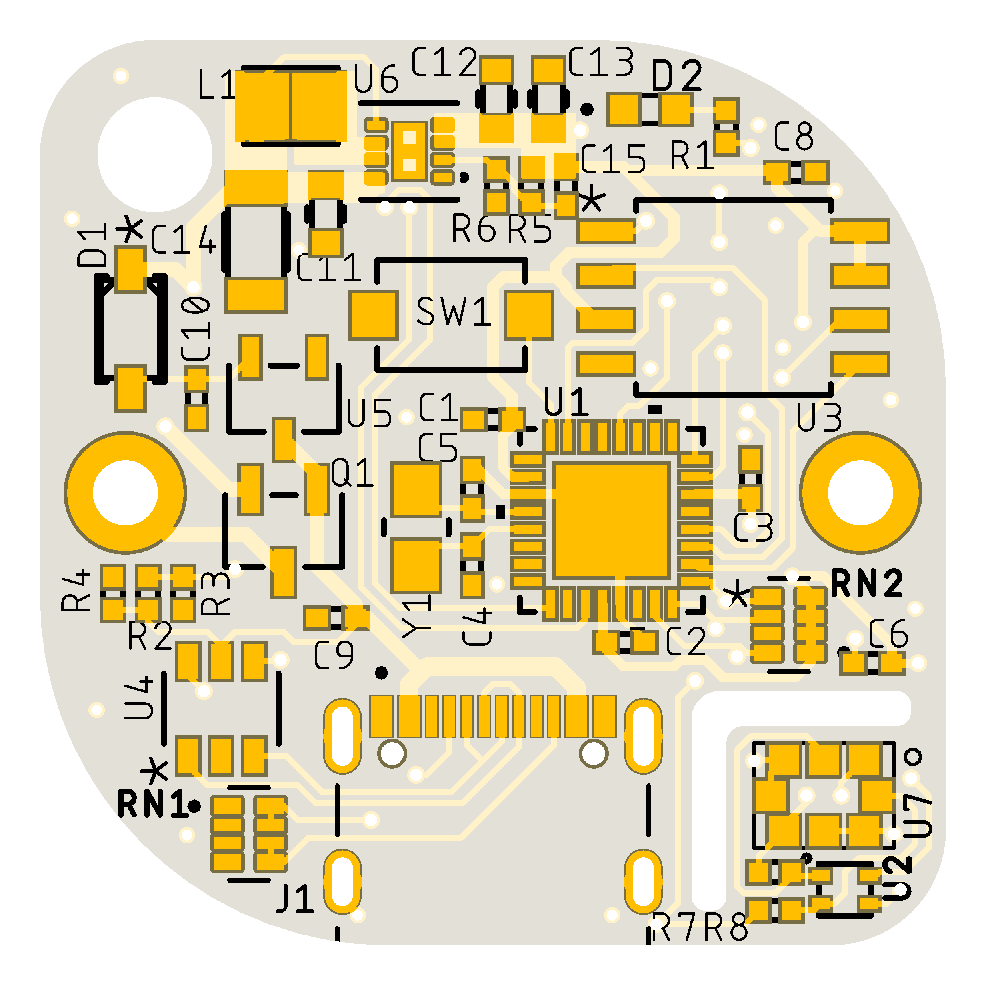
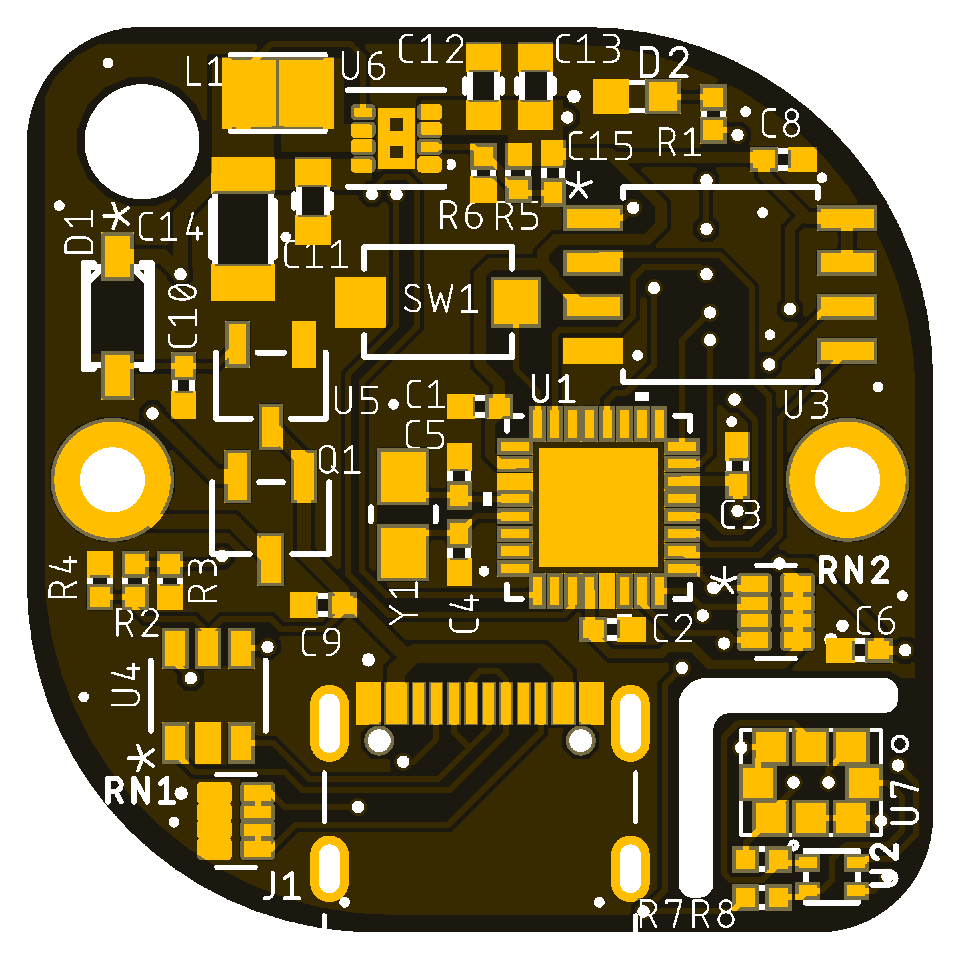
基板の画像を 3.1 のものに差し替え、余白を削る
- docs/images: 3D 表示とレイアウト図を基板 3.1 のものに更新し、周囲の白い余白を削った
- 紹介ページの画像の寸法指定を合わせた

diff --git a/docs/index.html b/docs/index.html
@@ -86,7 +86,7 @@
       </div>
       <p class="hint" data-i18n="app_hint"></p>
     </div>
-    <img src="images/3d_top.png" alt="C-Logger" width="1700" height="1260">
+    <img src="images/3d_top.png" alt="C-Logger" width="1351" height="1122">
   </div>
 
   <h2 data-i18n="feat_title"></h2>
